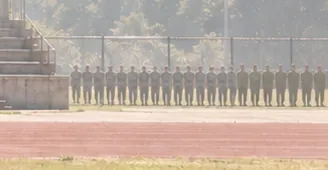
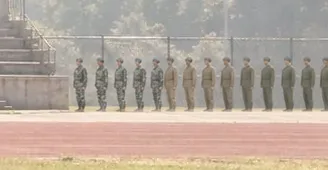
《向右看齐》角落那一排用生图脚本重做；脚本加全局限流、更多重试、--pick 选定候选，蒙版外扩改为一并贴回

diff --git a/scripts/gen-scene.ts b/scripts/gen-scene.ts
@@ -5,9 +5,10 @@
  *   npm run gen -- web/src/scenes/xiang-you-kan-qi girl line  只（重新）生成这几层
  *   npm run gen -- <场景目录> girl --dry                       不调接口，只画出蒙版预览
  *   npm run gen -- <场景目录> girl --n 3                       出 3 个候选放进缓存目录，不覆盖正式文件
+ *   npm run gen -- <场景目录> girl --pick 2                    把第 2 个候选定为正式文件
  *   npm run gen -- <场景目录> line --reuse                     不调接口，用上次的原始输出重新贴回、裁切（调参数用）
  *
- * 接口地址和密钥从 .env 读取：IMAGE_API_BASE、IMAGE_API_KEY。
+ * 接口地址和密钥从 .env 读取：IMAGE_API_BASE、IMAGE_API_KEY；同时请求数 IMAGE_API_CONCURRENCY（默认 2）。
  *
  * 模型只把蒙版当参考，蒙版外的像素也会被轻微重画。所以局部重绘之后，
  * 只把区域里那一块羽化贴回底图，其余像素保持原样，各状态图之间严格对齐。
@@ -27,7 +28,7 @@ type Layer = {
   refs?: string[]
   /** 只改这一块；改完贴回 base，区域外一个像素都不动 */
   region?: Region
-  /** 发给模型的蒙版比区域大多少像素，给模型留出余地（默认 32） */
+  /** 蒙版和贴回范围都比区域外扩多少像素（默认 0）。模型会把内容画满蒙版，所以区域就按想要的物体大小来画 */
   pad?: number
   /** 贴回时的羽化宽度（默认 16） */
   feather?: number
@@ -69,7 +70,7 @@ const opt = (name: string) => {
   const i = argv.indexOf(`--${name}`)
   return i >= 0 ? argv[i + 1] : undefined
 }
-const positional = argv.filter((a, i) => !a.startsWith('--') && argv[i - 1] !== '--n')
+const positional = argv.filter((a, i) => !a.startsWith('--') && argv[i - 1] !== '--n' && argv[i - 1] !== '--pick')
 const [sceneArg, ...only] = positional
 if (!sceneArg) {
   console.error('用法：npm run gen -- <场景目录> [层名...] [--dry] [--n 3]')
@@ -154,14 +155,29 @@ async function apiMask(r: Region, W: number, H: number, pad: number) {
 
 class RetryableError extends Error {}
 
-/** 代理偶尔会返回上游错误，重试两次 */
+/** 代理的账号池并发有限，太多同时请求会被拒（503 或奇怪的上游 400），所以全局限流 */
+const API_CONCURRENCY = Number(process.env.IMAGE_API_CONCURRENCY ?? 2)
+let inFlight = 0
+const waiting: (() => void)[] = []
+async function withSlot<T>(fn: () => Promise<T>): Promise<T> {
+  while (inFlight >= API_CONCURRENCY) await new Promise<void>(r => waiting.push(r))
+  inFlight++
+  try {
+    return await fn()
+  } finally {
+    inFlight--
+    waiting.shift()?.()
+  }
+}
+
+/** 代理偶尔会返回上游错误或并发已满，最多重试四次 */
 async function callApi(name: string, layer: Layer, prompt: string, images: Buffer[], mask?: Buffer): Promise<Buffer> {
   for (let attempt = 1; ; attempt++) {
     try {
-      return await callApiOnce(name, layer, prompt, images, mask)
+      return await withSlot(() => callApiOnce(name, layer, prompt, images, mask))
     } catch (e) {
       const retryable = e instanceof RetryableError || (e as Error).name === 'TimeoutError'
-      if (!retryable || attempt >= 3) throw e
+      if (!retryable || attempt >= 5) throw e
       console.warn(`${(e as Error).message}\n[${name}] 第 ${attempt} 次失败，${attempt * 10} 秒后重试…`)
       await new Promise(r => setTimeout(r, attempt * 10_000))
     }
@@ -224,7 +240,8 @@ async function render(name: string, variant?: number) {
   if (layer.region) prompt += '\n\nOnly change the transparent masked area. Keep everything outside it exactly as in the input photo: same framing, perspective, lighting and grain.'
   const refs = await Promise.all((layer.refs ?? []).map(r => sharp(sourceOf(r)).png().toBuffer()))
   const mode = layer.region ? '局部重绘' : base ? '整张编辑' : refs.length ? `照参考图生成（${refs.length} 张）` : '从零生成'
-  const mask = layer.region ? await apiMask(layer.region, W, H, layer.pad ?? 32) : undefined
+  const pad = layer.pad ?? 0
+  const mask = layer.region ? await apiMask(layer.region, W, H, pad) : undefined
 
   if (dry) {
     if (base && layer.region) {
@@ -258,7 +275,7 @@ async function render(name: string, variant?: number) {
   let result = await img.ensureAlpha().png().toBuffer()
 
   if (base && layer.region) {
-    const a = await regionAlpha(layer.region, W, H, 0, layer.feather ?? 16)
+    const a = await regionAlpha(layer.region, W, H, pad, layer.feather ?? 16)
     // 先单独去掉透明通道再接上羽化蒙版：sharp 按固定顺序执行，写在一条链里 removeAlpha 会把刚接上的通道删掉
     const rgb = await sharp(result).removeAlpha().raw().toBuffer()
     const patch = await sharp(rgb, { raw: { width: W, height: H, channels: 3 } })
@@ -280,12 +297,29 @@ async function render(name: string, variant?: number) {
     console.log(`[${tag}] 候选 → ${relative('.', p)}（${secs}s）`)
     return
   }
-  writeFileSync(masterFile(name), result)
+  await publish(name, result)
+  console.log(`[${tag}] → ${relative('.', outFile(name))}（${secs}s）`)
+}
+
+/** 写母版和正式文件 */
+async function publish(name: string, png: Buffer) {
+  writeFileSync(masterFile(name), png)
   const file = outFile(name)
-  const q = layer.webp ?? 82
-  if (extname(file) === '.webp') await sharp(result).webp({ quality: q, alphaQuality: 90 }).toFile(file)
-  else await sharp(result).toFile(file)
-  console.log(`[${tag}] → ${relative('.', file)}（${secs}s）`)
+  const q = cfg.layers[name].webp ?? 82
+  if (extname(file) === '.webp') await sharp(png).webp({ quality: q, alphaQuality: 90 }).toFile(file)
+  else await sharp(png).toFile(file)
+}
+
+const pick = opt('pick')
+if (pick) {
+  if (!only.length) fail('--pick 要写明层名')
+  for (const name of only) {
+    const p = join(cacheDir, `${name}.v${pick}.png`)
+    if (!existsSync(p)) fail(`没有候选 ${relative('.', p)}`)
+    await publish(name, readFileSync(p))
+    console.log(`[${name}] 用第 ${pick} 个候选 → ${relative('.', outFile(name))}`)
+  }
+  process.exit(0)
 }
 
 // ---------- 调度：先生成被依赖的层，互不依赖的并行跑 ----------
